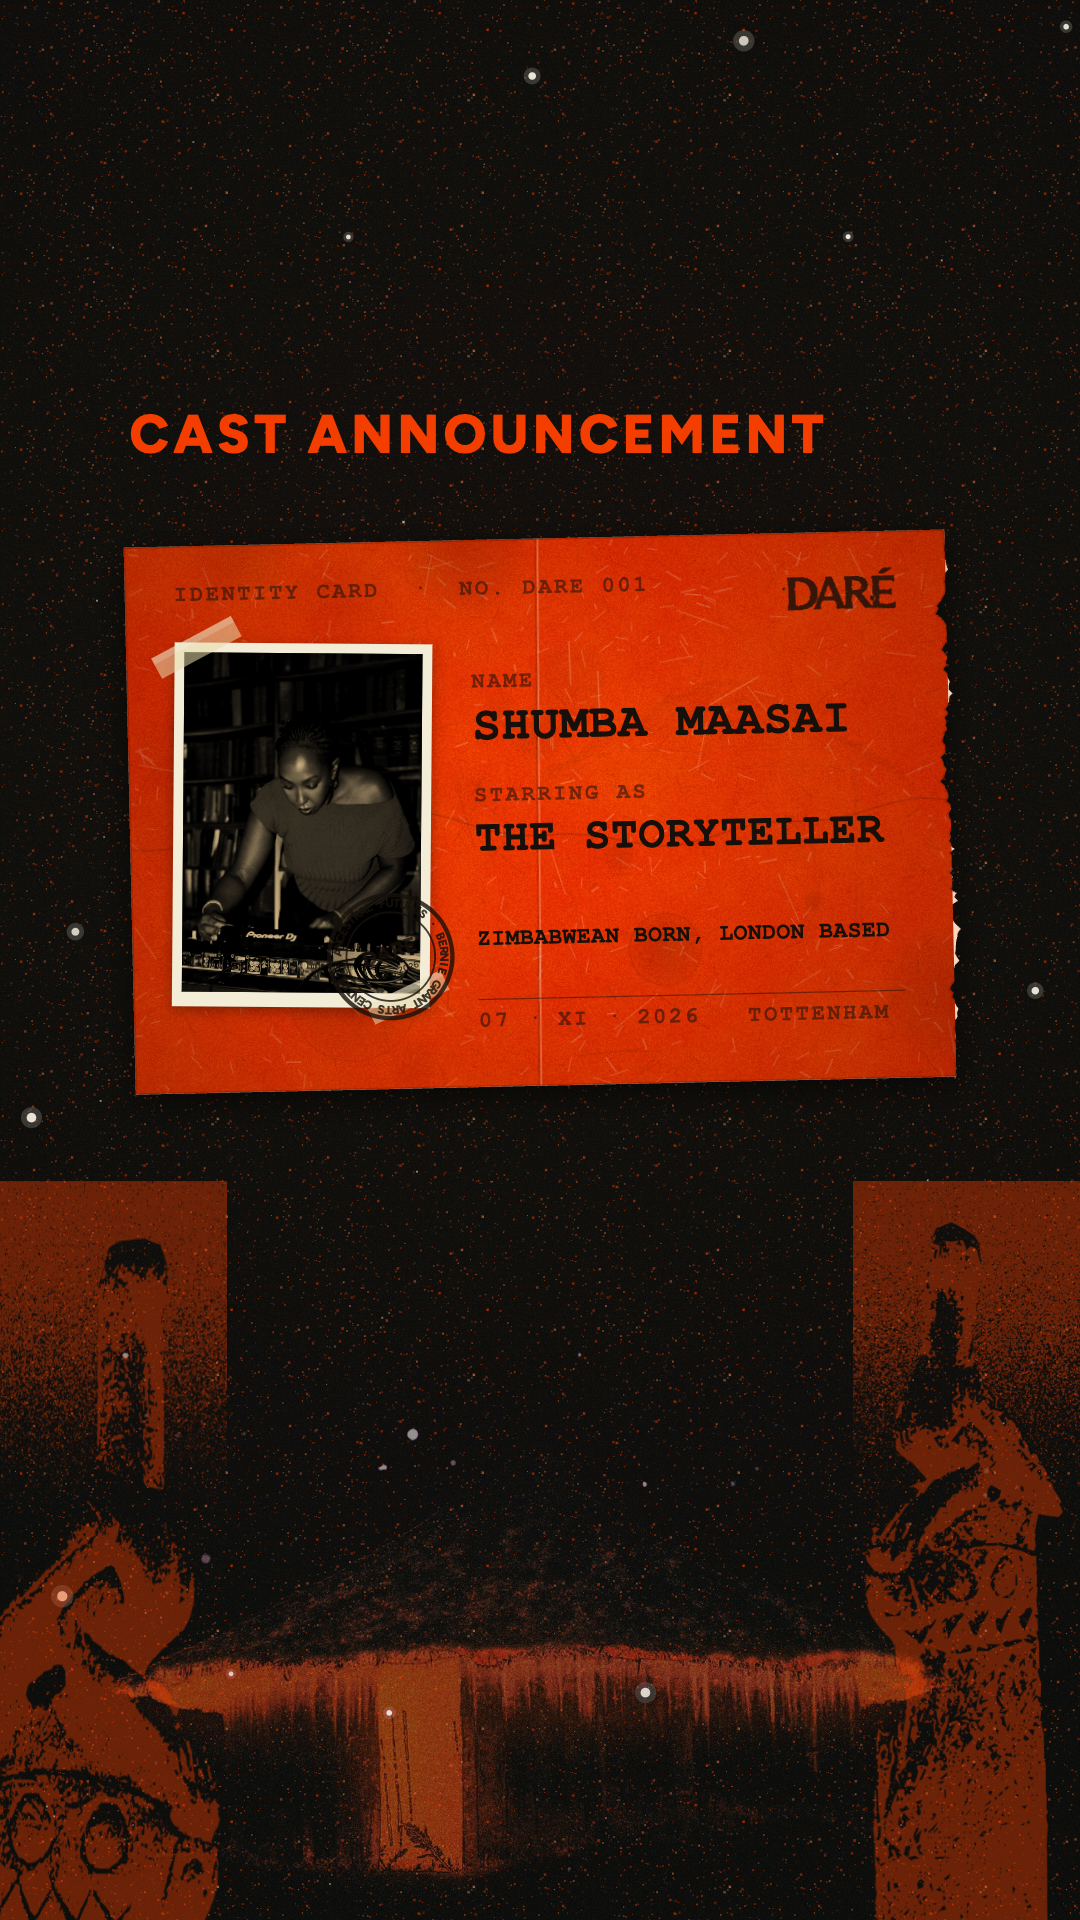
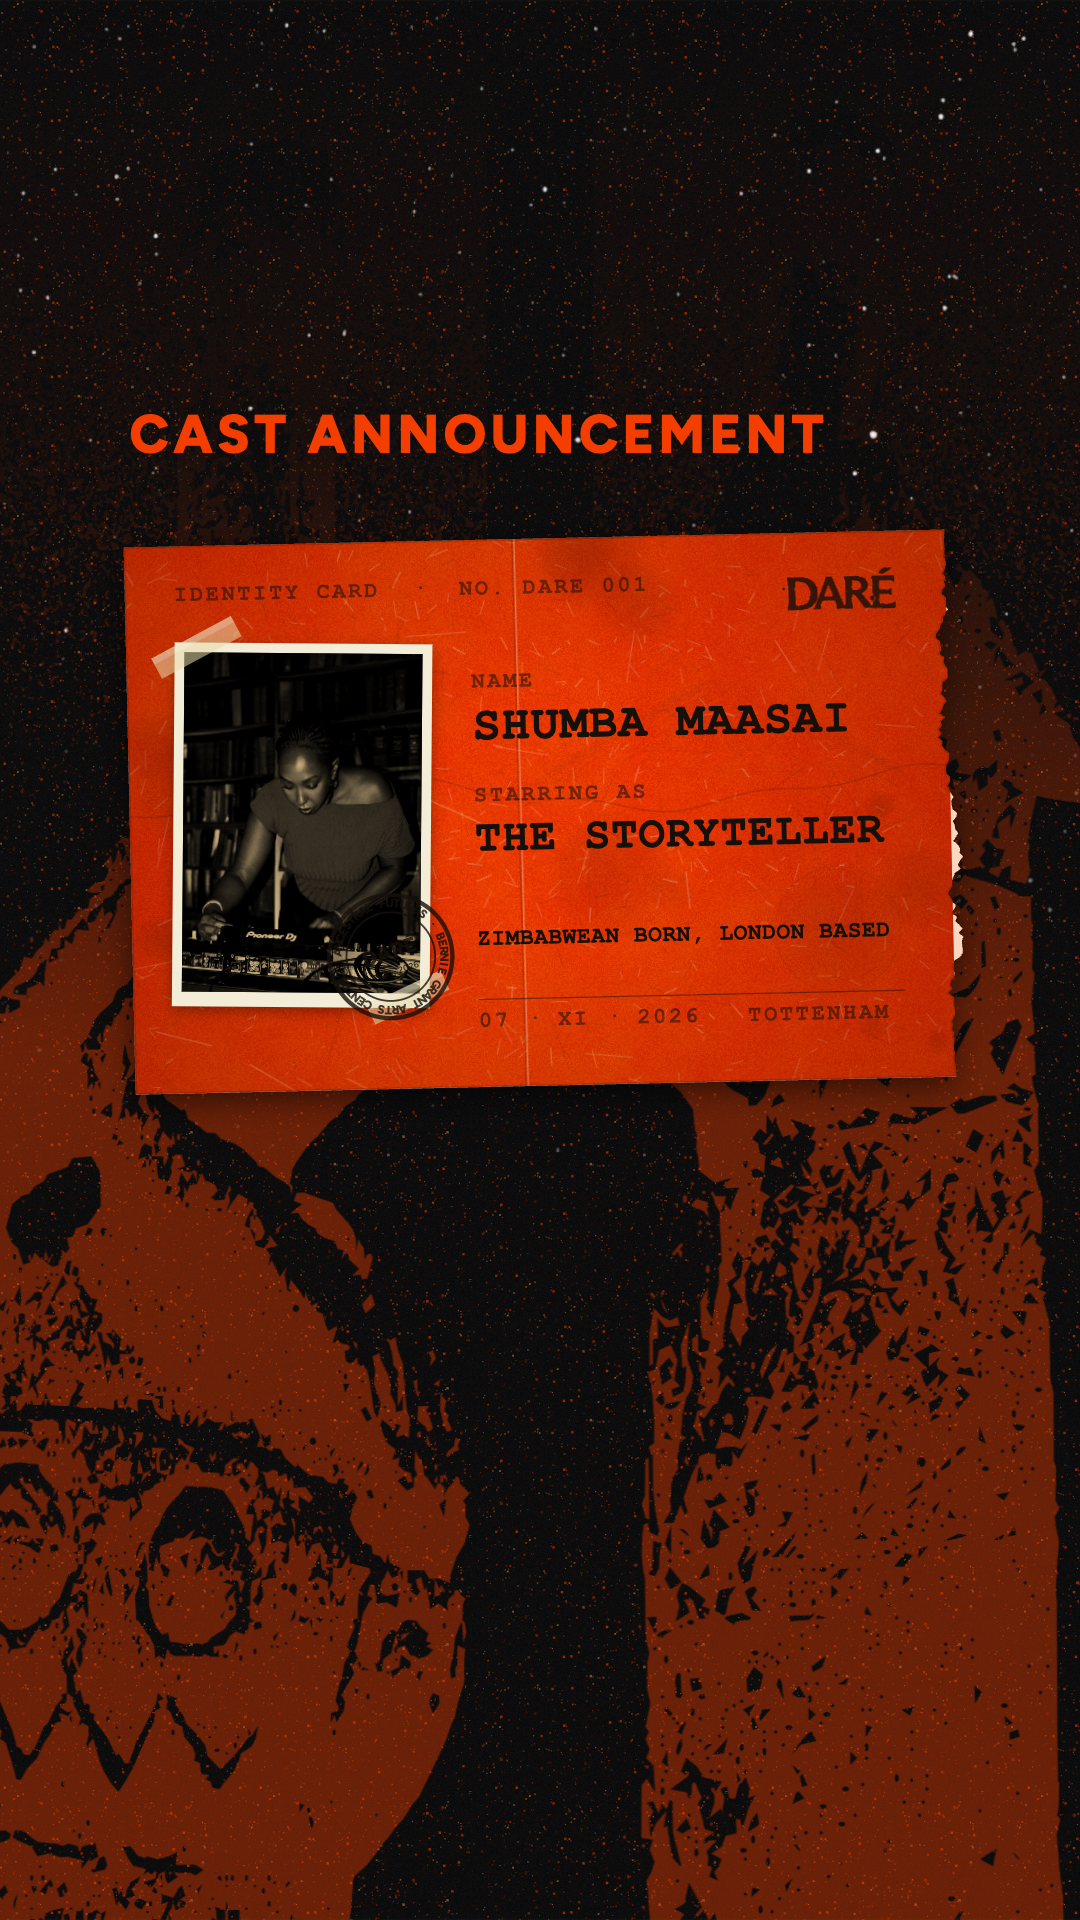
The night is the poster's sky, with the birds full height and no hut

diff --git a/public/cast.html b/public/cast.html
@@ -305,7 +305,23 @@ function drawArt(ctx, img, x, y, w, h, colour, alpha) {
 
 // The two carved birds, bled off the left and right edges as the poster
 // has them. They sit under everything else.
+const tallFig = document.createElement('canvas');
 function figures(ctx, W, H, colour, alpha, share) {
+  // `tall` stands them the full height of the frame, feet on its floor
+  // The carvings carry a spray of grain above them in the file; stood
+  // this tall it would fill the sky, so they fade out towards the top
+  // and the stars come through.
+  if (share === 'tall') {
+    tallFig.width = W; tallFig.height = H;
+    const f = tallFig.getContext('2d'); f.clearRect(0, 0, W, H);
+    if (ART.figL) { const w = H * (ART.figL.width / ART.figL.height); drawArt(f, ART.figL, -w * 0.3, 0, w, H, colour, 1); }
+    if (ART.figR) { const w = H * (ART.figR.width / ART.figR.height); drawArt(f, ART.figR, W - w * 0.7, 0, w, H, colour, 1); }
+    const g = f.createLinearGradient(0, 0, 0, H);
+    g.addColorStop(0, 'rgba(0,0,0,0)'); g.addColorStop(0.22, 'rgba(0,0,0,0.12)'); g.addColorStop(0.55, 'rgba(0,0,0,1)');
+    f.globalCompositeOperation = 'destination-in'; f.fillStyle = g; f.fillRect(0, 0, W, H); f.globalCompositeOperation = 'source-over';
+    ctx.save(); ctx.globalAlpha = alpha; ctx.drawImage(tallFig, 0, 0); ctx.restore();
+    return;
+  }
   const w = W * (share || 0.27);
   if (ART.figL) { const h = w * (ART.figL.height / ART.figL.width); drawArt(ctx, ART.figL, -w * 0.22, H - h * 0.92, w, h, colour, alpha); }
   if (ART.figR) { const h = w * (ART.figR.height / ART.figR.width); drawArt(ctx, ART.figR, W - w * 0.78, H - h * 0.92, w, h, colour, alpha); }
@@ -527,27 +543,24 @@ function draw(ctx, W, H, card, G, source, t) {
   // stars and the dust of grain over all of it; or the poster's orange.
   const night = G.ground === 'night';
   const scene = (G.scene || 'full') === 'full';
-  if (night) {
-    const g = ctx.createRadialGradient(W / 2, H * 0.34, 0, W / 2, H * 0.34, Math.max(W, H) * 0.78);
-    g.addColorStop(0, '#110f0c'); g.addColorStop(0.72, P.ground); g.addColorStop(1, P.ground);
-    ctx.fillStyle = g;
-  } else ctx.fillStyle = P.orange;
+  ctx.fillStyle = night ? P.ground : P.orange;
   ctx.fillRect(0, 0, W, H);
+  // the poster's own sky, covering the frame and anchored to the top so
+  // its stars stay in
+  if (night && ART.stars) {
+    const img = ART.stars, s = Math.max(W / img.width, H / img.height);
+    const sw = img.width * s, sh = img.height * s;
+    ctx.drawImage(img, (W - sw) / 2, 0, sw, sh);
+  }
   const r = rnd(card.seed || 7);
   const sq = Math.max(0, Math.min(1, (1.78 - H / W) / 0.78)); // 0 for a story, 1 for a square
   const gx = -Math.floor(((t || 0) * 37) % 256), gy = -Math.floor(((t || 0) * 23) % 256);
   if (night) {
     // the dust first, so the stars stay sharp on top of it
     ctx.save(); ctx.globalAlpha = scene ? 0.7 : 0.55; ctx.translate(gx, gy); ctx.fillStyle = ctx.createPattern(speck, 'repeat'); ctx.fillRect(-gx, -gy, W, H); ctx.restore();
-    for (let i = 0; i < (W * H) / 16000; i++) { const x = r() * W, y = r() * H, s = r(); ctx.globalAlpha = 0.18 + s * 0.5; ctx.fillStyle = s > 0.93 ? P.cream : '#cfc9a8'; const d = s > 0.96 ? 2.4 : s > 0.8 ? 1.6 : 1.1; ctx.fillRect(x, y, d, d); }
-    // and a few of the poster's big soft stars
-    for (let i = 0; i < 7 + Math.round(H / W * 4); i++) { const x = r() * W, y = r() * H * 0.9, rad = W * 0.002 + r() * W * 0.0035; ctx.globalAlpha = 0.75 + r() * 0.25; ctx.fillStyle = '#f3efe4'; ctx.beginPath(); ctx.arc(x, y, rad, 0, Math.PI * 2); ctx.fill(); ctx.globalAlpha = 0.18; ctx.beginPath(); ctx.arc(x, y, rad * 2.2, 0, Math.PI * 2); ctx.fill(); }
     ctx.globalAlpha = 1;
-    if (scene) {
-      // the squarer the frame, the lower the hut sits and the smaller the birds
-      if (ART.hut) { const hw = W * 0.98, hh = hw * (ART.hut.height / ART.hut.width); ctx.save(); ctx.globalCompositeOperation = 'lighten'; ctx.globalAlpha = 0.55; ctx.drawImage(ART.hut, (W - hw) / 2, H * (1.02 + 0.05 * sq) - hh, hw, hh); ctx.restore(); }
-      figures(ctx, W, H, P.orange, 0.42, 0.27 - 0.08 * sq);
-    }
+    // the two birds, the full height of the frame, held back behind the card
+    if (scene) figures(ctx, W, H, P.orange, 0.42, 'tall');
   } else if (scene) {
     figures(ctx, W, H, P.ink, 0.7, 0.27 - 0.08 * sq);
     if (ART.hutline) { const hw = W * 1.04, hh = hw * (ART.hutline.height / ART.hutline.width); drawArt(ctx, ART.hutline, (W - hw) / 2, H - hh * 1.02, hw, hh, P.ink, 0.2); }
@@ -921,7 +934,7 @@ async function exportSample(f) {
 }
 
 (async function () {
-  await Promise.all([load('word', '/art/wordmark.png'), load('hutline', '/art/hut-line.png'), load('hut', '/hut.webp'), load('figL', '/art/figure-left.png'), load('figR', '/art/figure-right.png')]);
+  await Promise.all([load('word', '/art/wordmark.png'), load('hutline', '/art/hut-line.png'), load('stars', '/art/stars.jpg'), load('figL', '/art/figure-left.png'), load('figR', '/art/figure-right.png')]);
   if (document.fonts && document.fonts.ready) await document.fonts.ready;
   const q = new URLSearchParams(location.search);
   if (q.has('export')) { await exportSample(q.get('fmt') || 'story'); return; }

diff --git a/README.md b/README.md
@@ -49,9 +49,10 @@ npm run dev
   drawn, with their picture or clip pasted on as an old print, their
   name, their part ("Starring as", "Playing", "Role") and a line about
   them in typewriter capitals, and the stamp. Round it, the poster's
-  night: the hut lit from inside, the two carved birds bled off the
-  edges, the stars and the orange dust over everything. "Just the card"
-  under Fine print leaves the night bare. Nothing else on the frame but
+  night: the artist's own star sky, the two carved birds standing the
+  full height of the frame and fading into the sky, and the orange dust
+  over everything. "Just the card" under Fine print leaves the night
+  bare. Nothing else on the frame but
   the heading; the date, venue and ticket line go in the caption.
   Cards are kept in the browser's own storage so they can be edited
   later, and come out as PNG or as a recorded clip.
